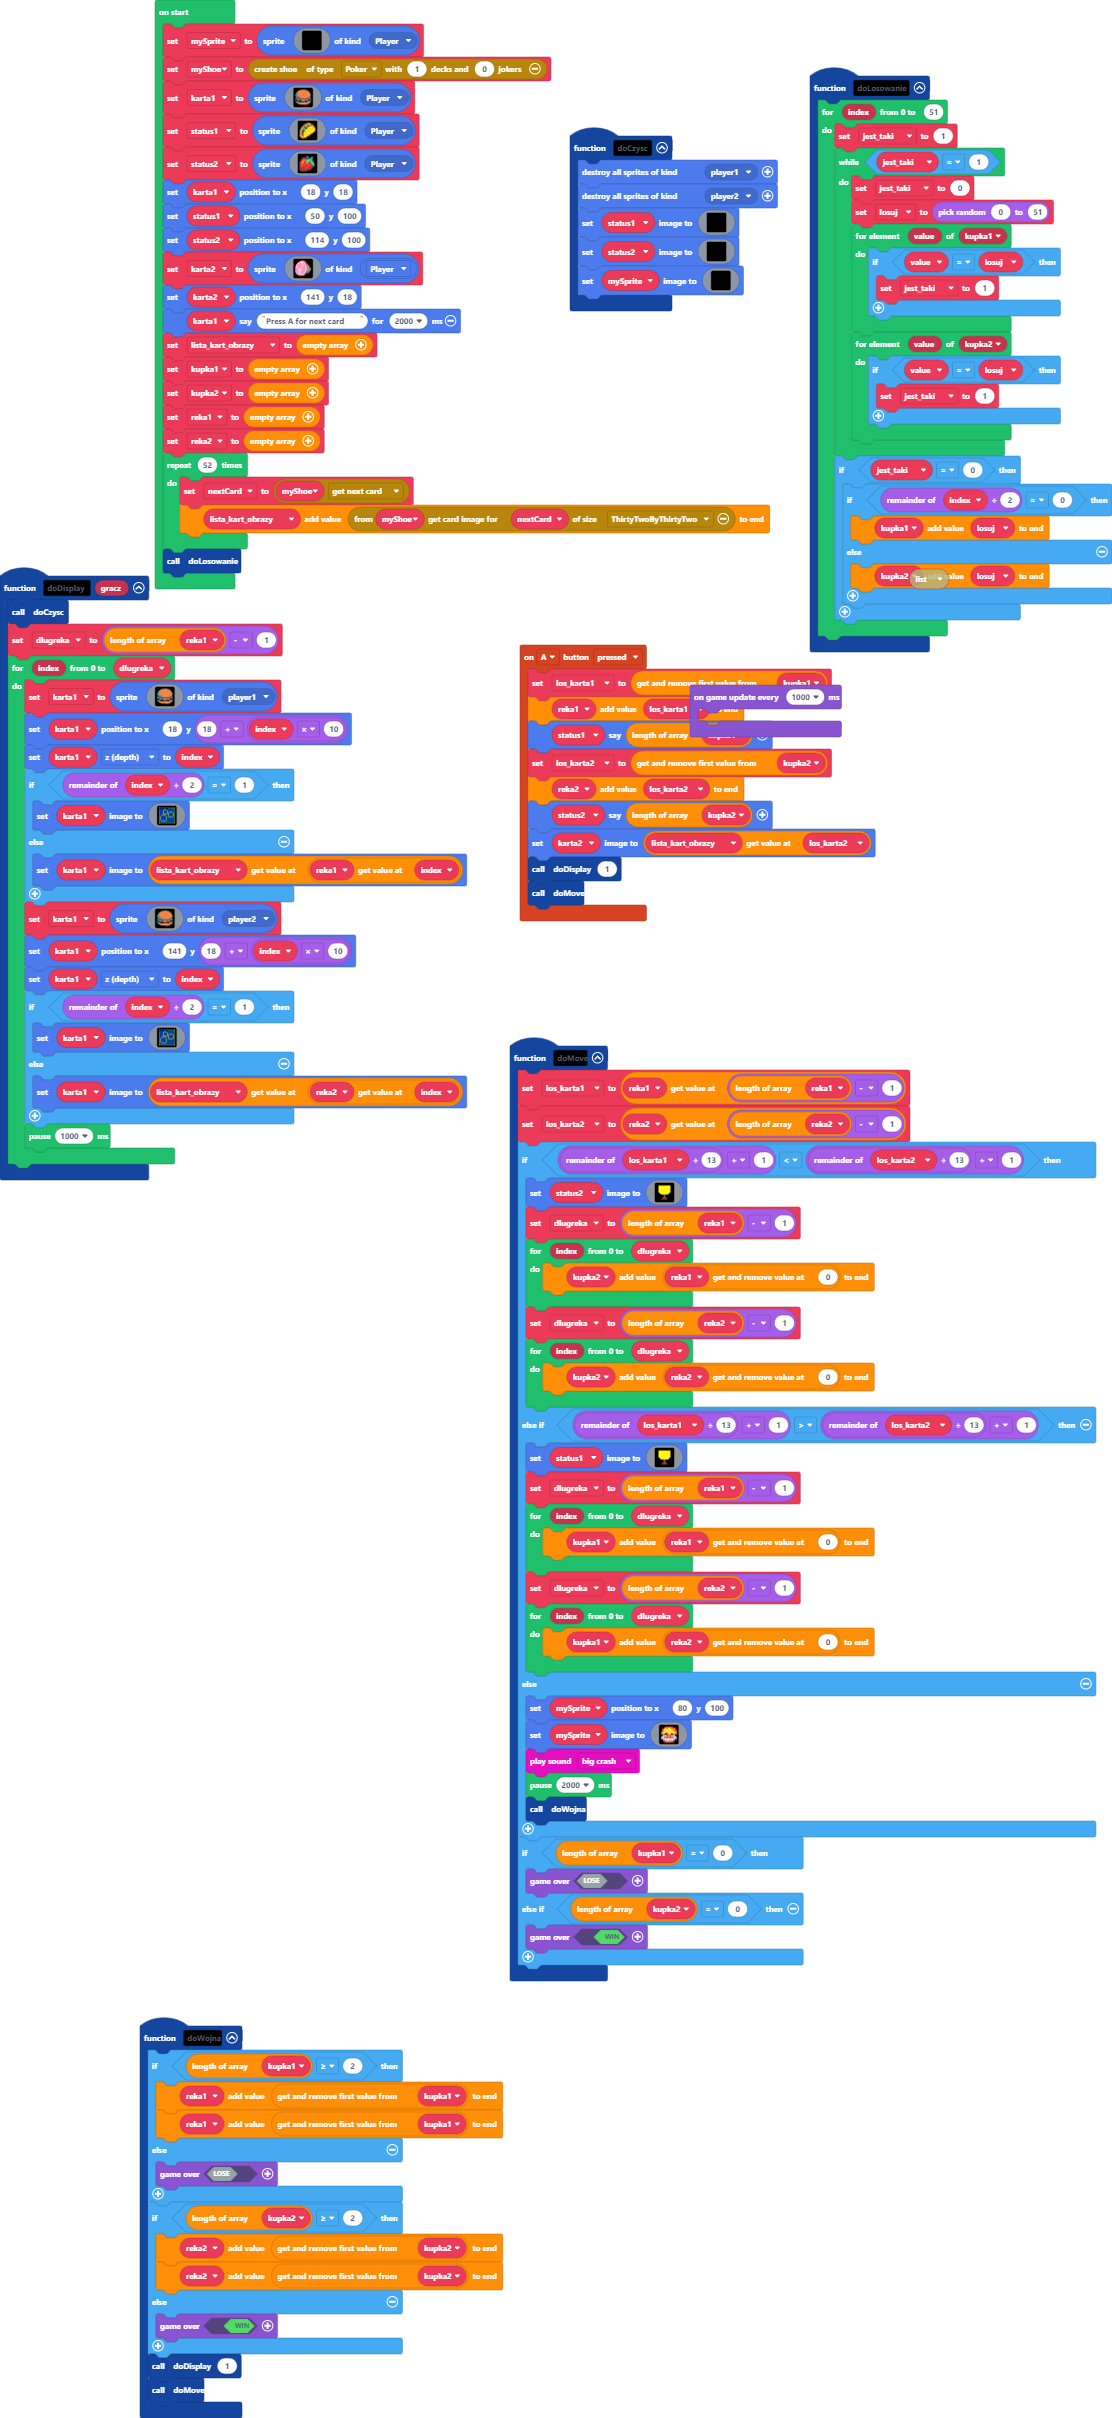
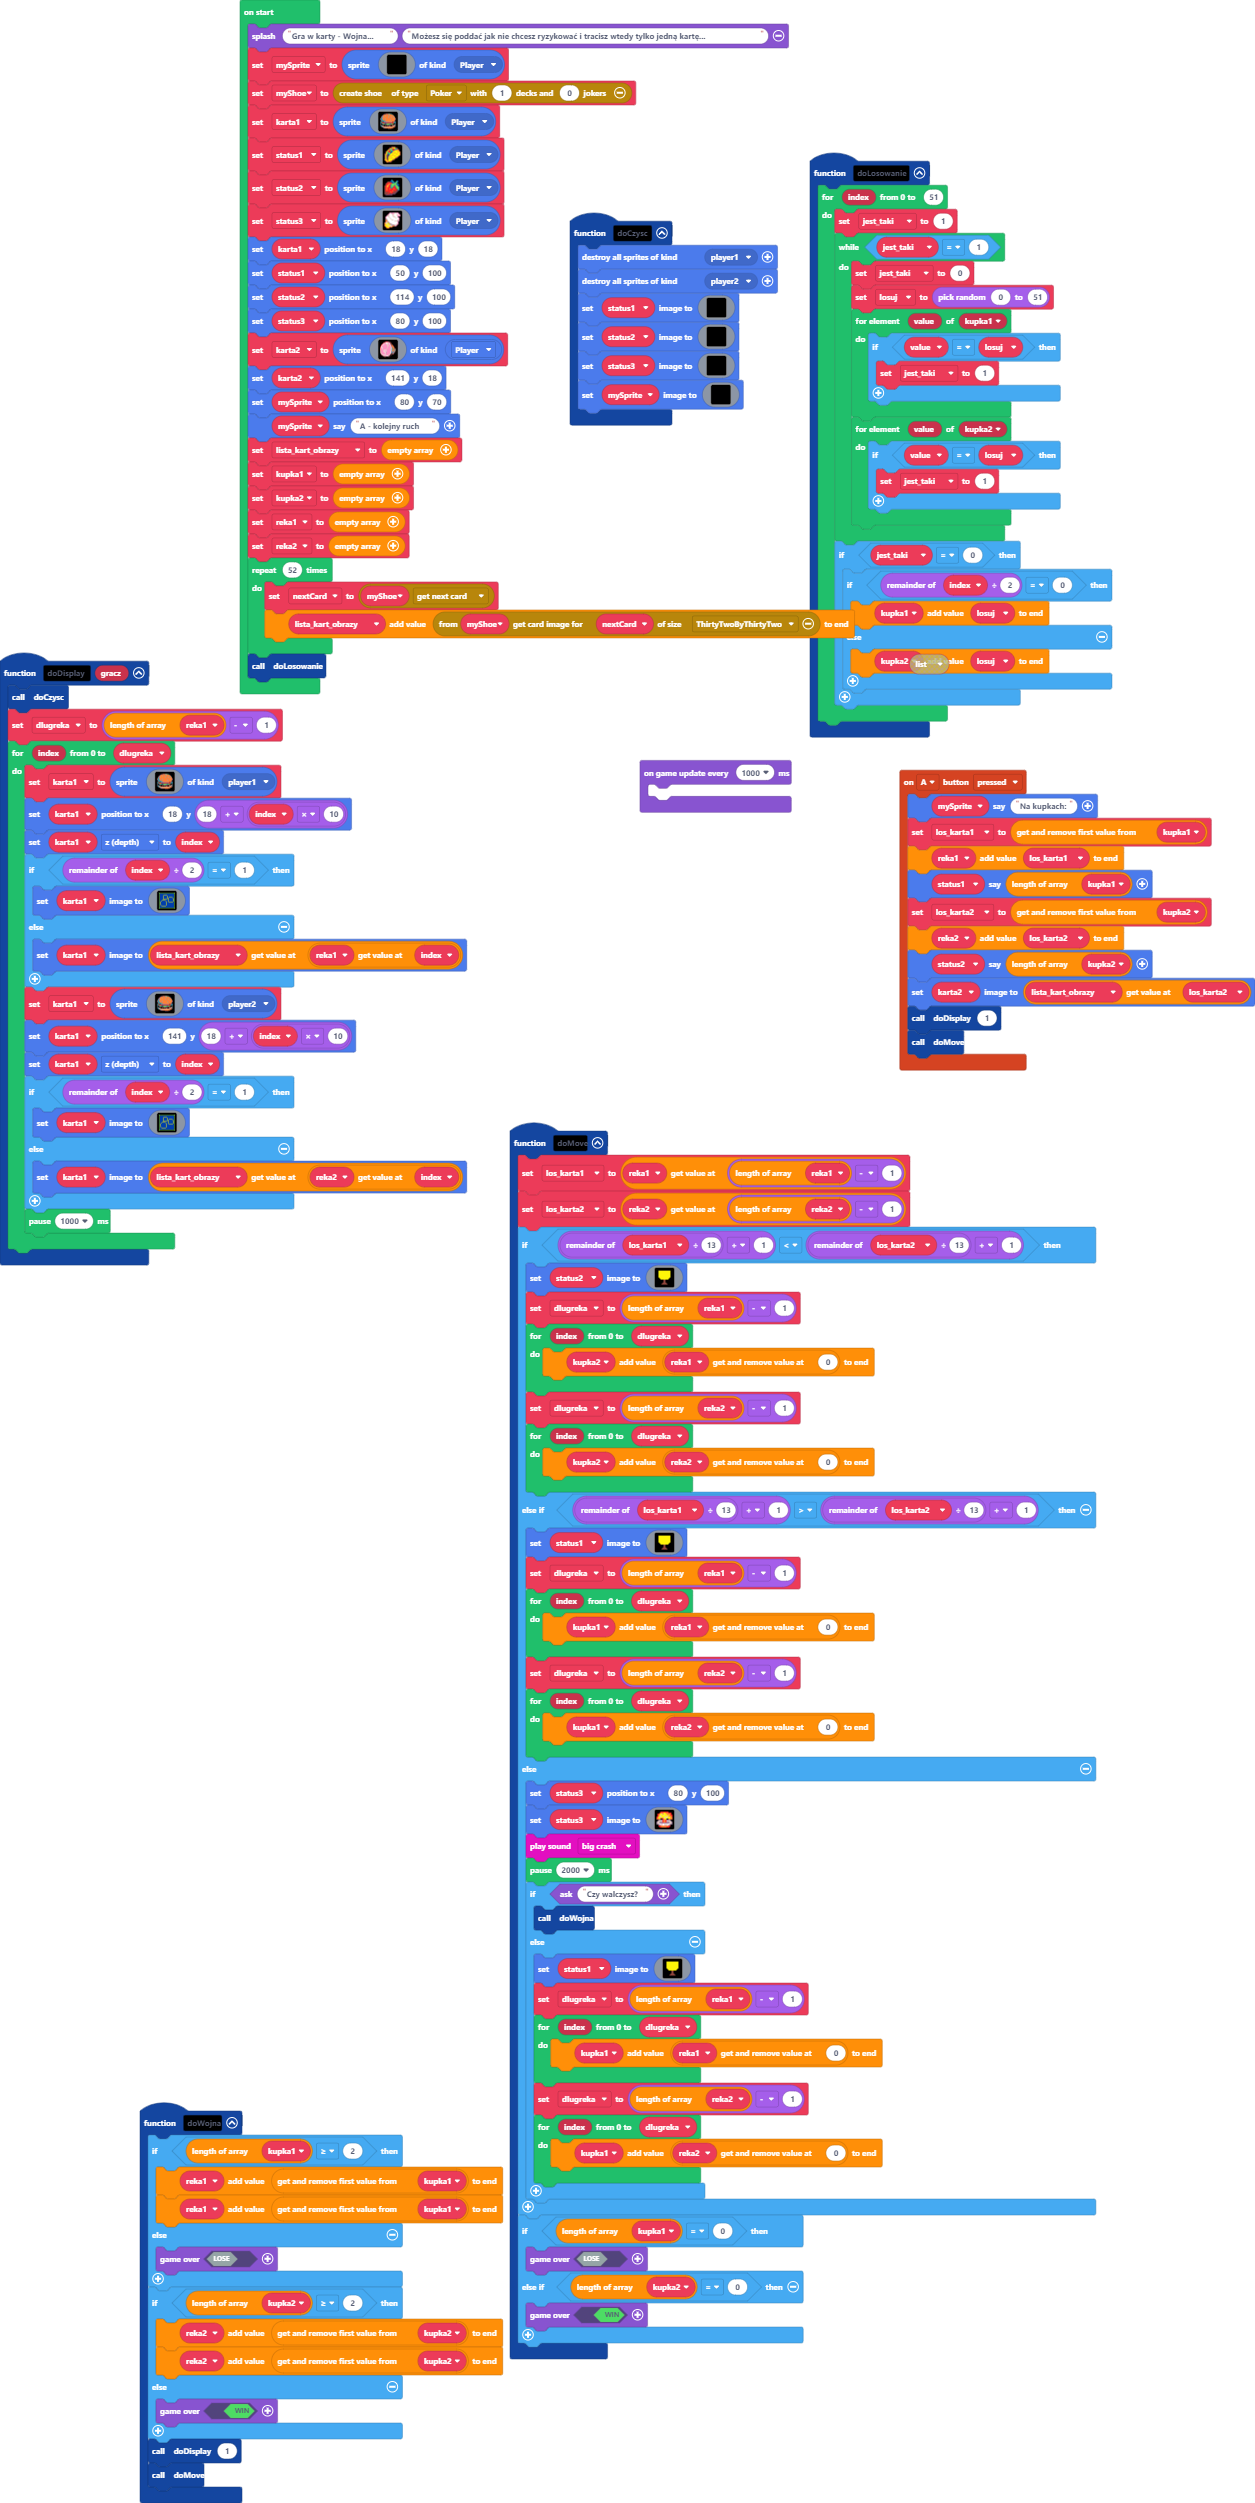
poprawki - wojna lub poddanie sie

diff --git a/main.ts b/main.ts
@@ -9,6 +9,7 @@ namespace SpriteKind {
     export const player2 = SpriteKind.create()
 }
 controller.A.onEvent(ControllerButtonEvent.Pressed, function () {
+    mySprite.say("Na kupkach:")
     los_karta1 = kupka1.shift()
     reka1.push(los_karta1)
     status1.say(kupka1.length)
@@ -41,6 +42,24 @@ function doCzysc () {
         f f f f f f f f f f f f f f f f 
         `)
     status2.setImage(img`
+        f f f f f f f f f f f f f f f f 
+        f f f f f f f f f f f f f f f f 
+        f f f f f f f f f f f f f f f f 
+        f f f f f f f f f f f f f f f f 
+        f f f f f f f f f f f f f f f f 
+        f f f f f f f f f f f f f f f f 
+        f f f f f f f f f f f f f f f f 
+        f f f f f f f f f f f f f f f f 
+        f f f f f f f f f f f f f f f f 
+        f f f f f f f f f f f f f f f f 
+        f f f f f f f f f f f f f f f f 
+        f f f f f f f f f f f f f f f f 
+        f f f f f f f f f f f f f f f f 
+        f f f f f f f f f f f f f f f f 
+        f f f f f f f f f f f f f f f f 
+        f f f f f f f f f f f f f f f f 
+        `)
+    status3.setImage(img`
         f f f f f f f f f f f f f f f f 
         f f f f f f f f f f f f f f f f 
         f f f f f f f f f f f f f f f f 
@@ -135,8 +154,8 @@ function doMove () {
             kupka1.push(reka2.removeAt(0))
         }
     } else {
-        mySprite.setPosition(80, 100)
-        mySprite.setImage(img`
+        status3.setPosition(80, 100)
+        status3.setImage(img`
             . . . . 2 2 2 2 2 2 2 2 . . . . 
             . . . 2 4 4 4 5 5 4 4 4 2 2 2 . 
             . 2 2 5 5 d 4 5 5 5 4 4 4 4 2 . 
@@ -156,7 +175,36 @@ function doMove () {
             `)
         music.bigCrash.play()
         pause(2000)
-        doWojna()
+        if (game.ask("Czy walczysz?")) {
+            doWojna()
+        } else {
+            status1.setImage(img`
+                f f f f f f f f f f f f f f f f 
+                f f 5 5 5 5 5 5 5 5 5 5 5 5 f f 
+                f f 5 5 5 5 5 5 5 5 5 5 5 5 f f 
+                f f 5 5 5 5 5 5 5 5 5 5 5 5 f f 
+                f f 5 5 5 5 5 5 5 5 5 5 5 5 f f 
+                f f 5 5 5 5 5 5 5 5 5 5 5 5 f f 
+                f f 5 5 5 5 5 5 5 5 5 5 5 5 f f 
+                f f 5 5 5 5 5 5 5 5 5 5 5 5 f f 
+                f f f 5 5 5 5 5 5 5 5 5 5 f f f 
+                f f f f 5 5 5 5 5 5 5 5 f f f f 
+                f f f f f f f e e f f f f f f f 
+                f f f f f f f e e f f f f f f f 
+                f f f f f f f e e f f f f f f f 
+                f f f f f f e e e e f f f f f f 
+                f f f f f e e e e e e f f f f f 
+                f f f f f f f f f f f f f f f f 
+                `)
+            dlugreka = reka1.length - 1
+            for (let index = 0; index <= dlugreka; index++) {
+                kupka1.push(reka1.removeAt(0))
+            }
+            dlugreka = reka2.length - 1
+            for (let index = 0; index <= dlugreka; index++) {
+                kupka1.push(reka2.removeAt(0))
+            }
+        }
     }
     if (kupka1.length == 0) {
         game.over(false)
@@ -373,10 +421,12 @@ let kupka2: number[] = []
 let kupka1: number[] = []
 let lista_kart_obrazy: Image[] = []
 let karta2: Sprite = null
+let status3: Sprite = null
 let status2: Sprite = null
 let status1: Sprite = null
 let karta1: Sprite = null
 let mySprite: Sprite = null
+game.splash("Gra w karty - Wojna...", "Możesz się poddać jak nie chcesz ryzykować i tracisz wtedy tylko jedną kartę...")
 mySprite = sprites.create(img`
     . . . . . . . . . . . . . . . . 
     . . . . . . . . . . . . . . . . 
@@ -466,9 +516,28 @@ status2 = sprites.create(img`
     e e e 2 e e c e c c c . . . . . 
     . c c c c c c c . . . . . . . . 
     `, SpriteKind.Player)
+status3 = sprites.create(img`
+    . . . . . 3 3 b 3 3 d d 3 3 . . 
+    . . . . 3 1 1 d 3 d 1 1 1 1 3 . 
+    . . . 3 d 1 1 1 d 1 1 1 d 3 1 3 
+    . . 3 d d 1 1 1 d d 1 1 1 3 3 3 
+    . 3 1 1 d 1 1 1 1 d d 1 1 b . . 
+    . 3 1 1 1 d 1 1 1 1 1 d 1 1 3 . 
+    . b d 1 1 1 d 1 1 1 1 1 1 1 3 . 
+    . 4 b 1 1 1 1 d d 1 1 1 1 d 3 . 
+    . 4 4 d 1 1 1 1 1 1 d d d b b . 
+    . 4 d b d 1 1 1 1 1 1 1 1 3 . . 
+    4 d d 5 b d 1 1 1 1 1 1 1 3 . . 
+    4 5 d 5 5 b b d 1 1 1 1 d 3 . . 
+    4 5 5 d 5 5 d b b b d d 3 . . . 
+    4 5 5 5 d d d d 4 4 b 3 . . . . 
+    . 4 5 5 5 4 4 4 . . . . . . . . 
+    . . 4 4 4 . . . . . . . . . . . 
+    `, SpriteKind.Player)
 karta1.setPosition(18, 18)
 status1.setPosition(50, 100)
 status2.setPosition(114, 100)
+status3.setPosition(80, 100)
 karta2 = sprites.create(img`
     ...........222222ee.............
     .........2233333bbeee...........
@@ -504,7 +573,8 @@ karta2 = sprites.create(img`
     ................................
     `, SpriteKindLegacy.Player)
 karta2.setPosition(141, 18)
-karta1.say("Press A for next card", 2000)
+mySprite.setPosition(80, 70)
+mySprite.say("A - kolejny ruch")
 lista_kart_obrazy = []
 kupka1 = []
 kupka2 = []
